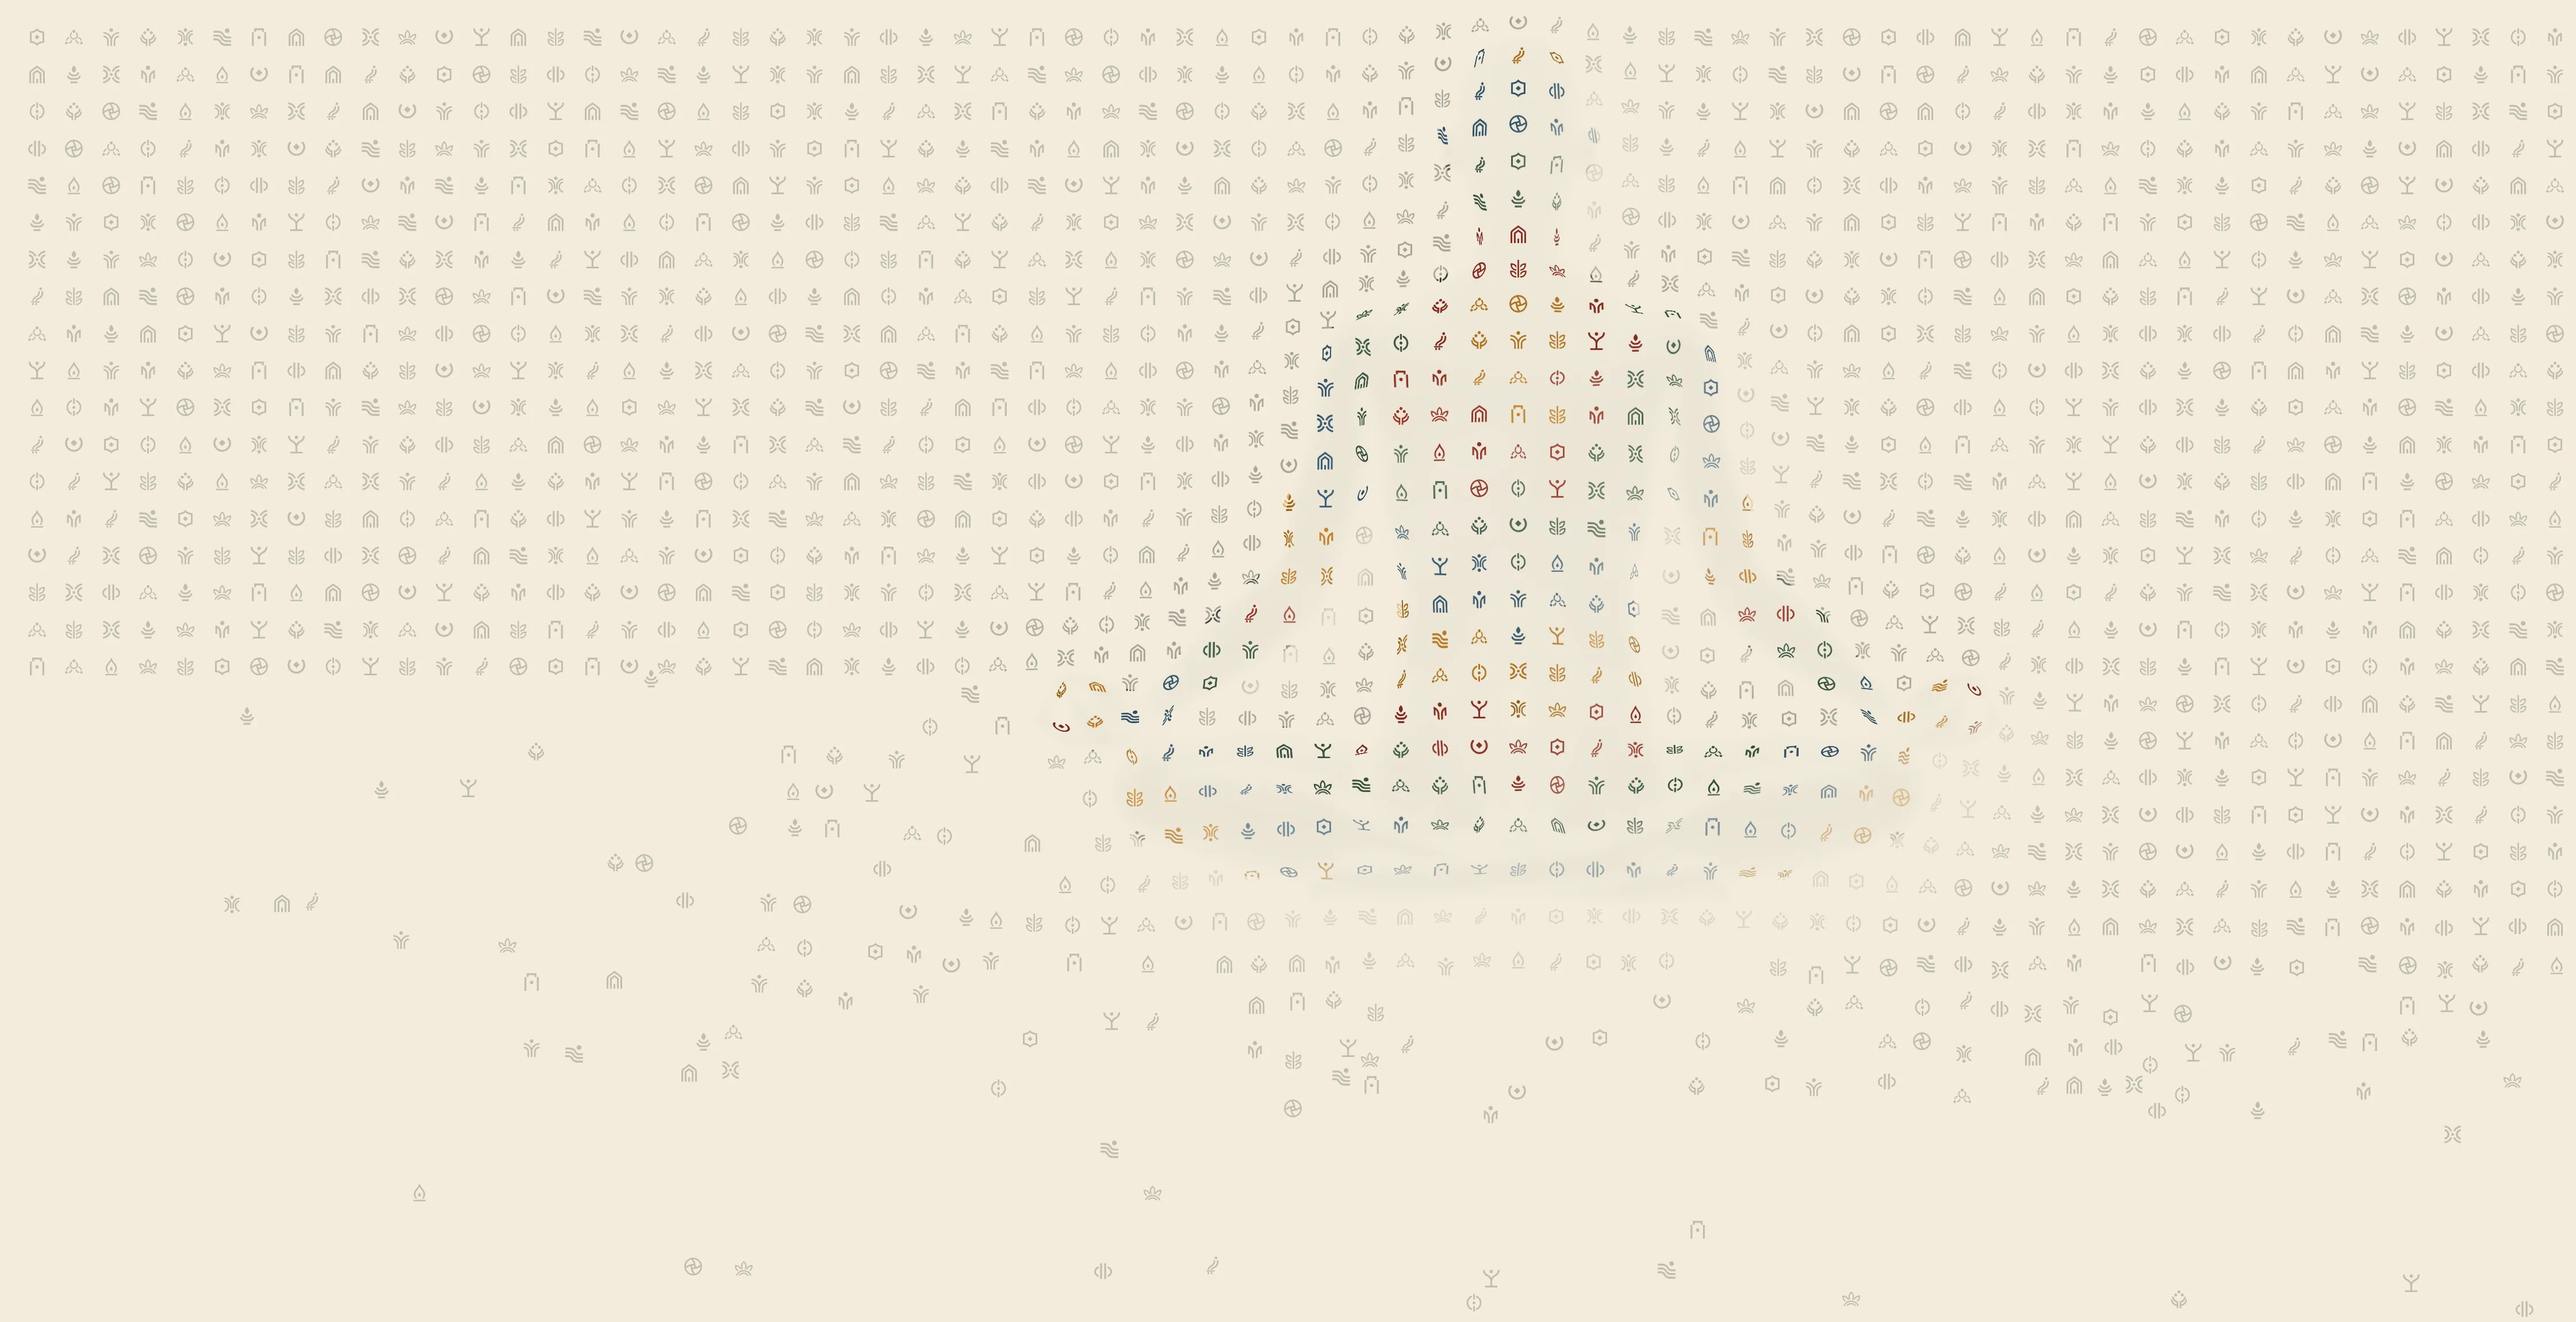
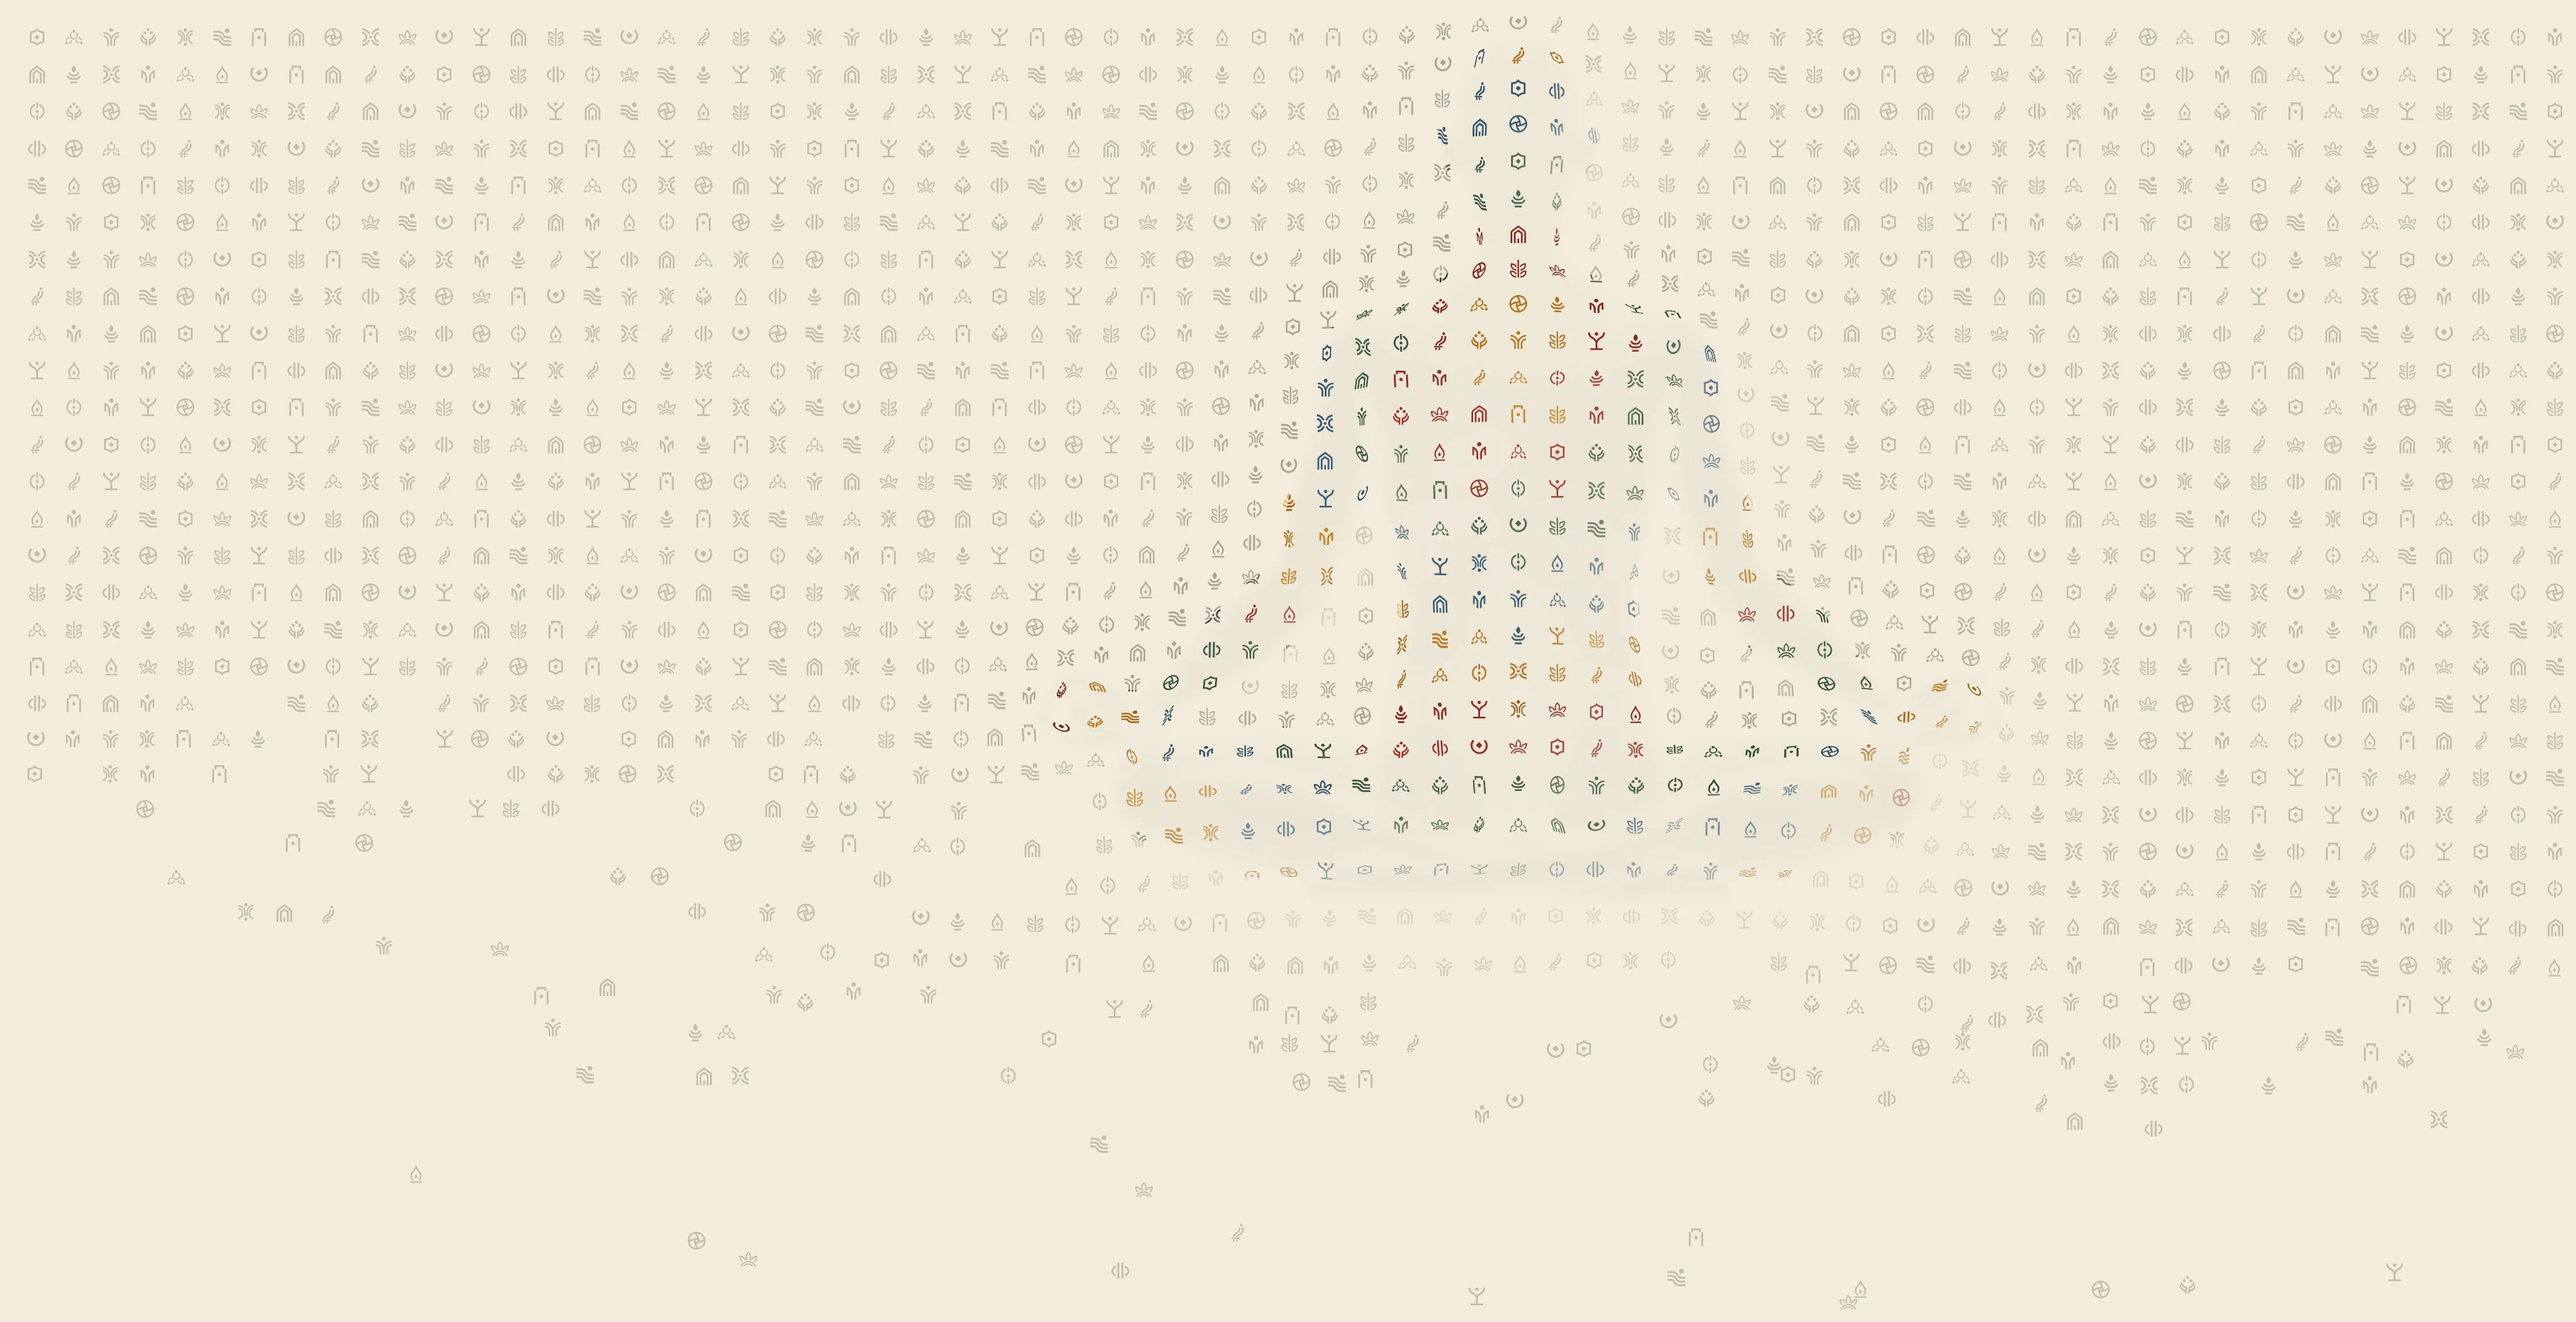
Hero field: stepped solid corner below the CE cut, slower break-up, colour coming in progressively
Claude-Session: https://claude.ai/code/session_01Faxypstm6H8yAswypDCHBa

diff --git a/scripts/hero-glyph-field.py b/scripts/hero-glyph-field.py
@@ -36,6 +36,12 @@ FIELD_COLOUR=0.0          # share of field glyphs that take a phase colour (risi
 # any bottom thinning) takes its colour; the whole field stays grey. No random mix of grey and coloured glyphs.
 FIELD_SPLIT=float(os.environ.get('FIELD_SPLIT','1'))
 LOOSE_EDGE=0.05           # how far into the edge break-up (0..1) a glyph counts as loose
+# Nov 18 (Dat, "more uniformity & solidity to the bottom left corner ... colours start lower ... progressively"): below the
+# cut's end the field stays nearly whole and on grid, then thins and drifts over CORNER_RAMP units, the same at every
+# screen size (the page's mask widens it into the corner on a soft diagonal). The share of coloured glyphs rises with
+# how far a glyph has come loose (COL_GAMMA > 1 = colour later).
+CORNER_RAMP=200
+COL_GAMMA=1.4
 FIG_STRENGTH=0.35         # how far the figure stands out from the field (0 = invisible)
 FIG_COLOUR_BOOST=1.5      # extra ink for the figure's coloured glyphs
 GAIN=1.6                  # overall darkness of the field
@@ -153,21 +159,23 @@ _rc=np.random.default_rng(7)   # section colours (own stream, so nothing else mo
 _nc=nd.gaussian_filter(_rs.normal(size=(int(HU/8)+2,int(WU/8)+2)),2.2); _nc/=_nc.std()
 def clump(x,y): return _nc[min(int(y/8),_nc.shape[0]-1),min(max(int((x-XL)/8),0),_nc.shape[1]-1)]
 def fragment(x,y,u):
-    # -> (keep, dx, dy, loose) for a field glyph landing at (x,y); loose = it is in the break-up
+    # -> (keep, dx, dy, loose) for a field glyph landing at (x,y); loose = how far it has come loose (0..1)
     i=min(max(P(y),0),H_-1); k=min(max(P(x+DX),0),W_-1); e=dE[i,k]
     if e>=EDGE_BAND: pe=1.0; te=0.0
     elif e>=0: te=1-e/EDGE_BAND; te=te*te*(3-2*te); pe=1-(1-EDGE_KEEP)*te
     else: te=1.0; pe=EDGE_KEEP*np.exp(e/EDGE_OUT)
-    wsol=np.clip((SOLID_TO-y)/30,0,1)                        # whole above SOLID_TO − 30 on both sides of the line: the page's CSS cut
-                                                             # through "CE" is the only edge there at every screen size (Dat, Nov 17)
+    wsol=1-ss((y-(SOLID_TO-30))/CORNER_RAMP)                 # whole above SOLID_TO − 30 on both sides of the line: the page's CSS cut
+                                                             # through "CE" is the only edge there at every screen size (Dat, Nov 17);
+                                                             # below it the break-up comes in over CORNER_RAMP (Nov 18)
+    td=te*ss((y-(SOLID_TO-30))/(2*CORNER_RAMP))                # drift comes in more slowly than the thinning: glyphs stay on grid
     pe=pe+(1-pe)*wsol; te=te*(1-wsol)
     tb=np.clip((y-(TOP+HT+BOTTOM_START))/BOTTOM_LEN,0,1); tb=tb*tb*(3-2*tb); pb=1-(1-BOTTOM_KEEP)*tb
     p=pe*pb
     if p<1: p=np.clip(p+CLUMP*clump(x,y)*min(p,1-p)*2,0,1)
     if u>p: return False,0.0,0.0,False
-    dx=-EDGE_DRIFT*te*eGx[i,k]/eGn[i,k]+_rs.normal(0,0.3*EDGE_DRIFT*te+0.3*BOTTOM_DRIFT*tb)
-    dy=-EDGE_DRIFT*te*eGy[i,k]/eGn[i,k]+abs(_rs.normal(0,BOTTOM_DRIFT*tb))
-    return True,dx,dy,bool(te>LOOSE_EDGE or tb>0)
+    dx=-EDGE_DRIFT*td*eGx[i,k]/eGn[i,k]+_rs.normal(0,0.3*EDGE_DRIFT*td+0.3*BOTTOM_DRIFT*tb)
+    dy=-EDGE_DRIFT*td*eGy[i,k]/eGn[i,k]+abs(_rs.normal(0,BOTTOM_DRIFT*tb))
+    lo=max(te,tb); return True,dx,dy,(lo if lo>LOOSE_EDGE or tb>0 else 0.0)
 rng=np.random.default_rng(SEED); np.random.seed(3)
 COL={'marigold':(217,143,43),'clay':(166,58,46),'sage':(76,107,84),'blue':(69,107,134)}; PC=['marigold','clay','sage','blue']
 def ss(t): t=np.clip(t,0,1); return t*t*(3-2*t)
@@ -190,7 +198,7 @@ def pick(j,ci):
 for j,y in enumerate(np.arange(-SP,HU+SP,SP)):
     for ci,x in enumerate(np.arange(CX-np.ceil((CX-(XL-SP))/SP)*SP,XL+WU+SP,SP)):   # straight rows and columns, a column on the figure's axis
         g=gl[pick(j,ci)]; u=rng.random(); col=None
-        wx,wy=warp(x,y); _loose=False
+        wx,wy=warp(x,y); _loose=0.0
         if not M[min(max(P(y+wy),0),H_-1),min(max(P(x+wx+DX),0),W_-1)]>0.5:
             _keep,_dx,_dy,_loose=fragment(x+wx,y+wy,u)
             if not _keep: continue
@@ -215,7 +223,7 @@ for j,y in enumerate(np.arange(-SP,HU+SP,SP)):
             prog=np.clip((y+70)/(BASE+80),0,1)
             if np.random.random()<FIELD_COLOUR*(0.15+0.85*prog**1.5): acc=PC[quarter(x)]
         if FIELD_SPLIT and not inside and acc is None:
-            if _loose:
+            if _loose and _rc.random()<_loose**COL_GAMMA:
                 T_=TA if _rc.random()<0.5 else TB          # two even halves: the page splits them at different places (marigold mix)
                 T_[Y:Y+n,X:X+n]=np.maximum(T_[Y:Y+n,X:X+n],g)
         if acc:

diff --git a/docs/edit-ledger.md b/docs/edit-ledger.md
@@ -814,3 +814,9 @@ commits. Hashes below were backfilled for commits made before the ledger existed
 - Marigold is solid only under box 1 again. From there to halfway between the cut and the clay/sage split, half the loose glyphs are marigold and half clay. The leftmost columns still carry some marigold without it taking over the left side.
 - How: the loose glyphs are split into two even random halves (`hero-glyph-field-tint.webp`, `hero-glyph-field-tint-b.webp`), each a mask over the colour columns with its own marigold/clay split (`.ln-field-tint`, `.ln-field-tint-b`). Positions, the grey field and the other splits are unchanged.
 - Why: Dat, Nov 18 ("there's too much marigold now").
+
+### 2026-11-18 · Hero field: a solid bottom-left corner, colour coming in lower (local, not pushed) (`home-04-lanes` only)
+- **Solid corner.** Below the end of the cut through "CE", the field no longer breaks up at once. It steps out into the corner one glyph row at a time, each row about 2.6 columns further left, for three rows. It stays on the grid there, then thins out over about 200 units. The steps sit in the gaps between glyph rows and columns, so no glyph is cut (`hero-field-shape.svg`). The thinning comes in with depth, so it looks the same at every screen size (`CORNER_RAMP` in `scripts/hero-glyph-field.py`). Glyphs drift off the grid more slowly than they thin out.
+- **Colour comes in progressively.** Glyphs right under the corner stay grey; the share that take their column's colour rises with how far they have come loose (`COL_GAMMA`).
+- Provisional: committed locally; waiting for Dat's go-ahead to push.
+- Why: Dat, Nov 18 ("add even more uniformity & solidity to the bottom left corner ... have the colours start lower into the corner progressively").
